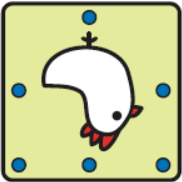
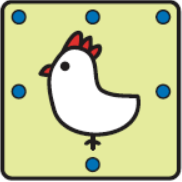
press T to toggle chieck and hen

diff --git a/src/main.py b/src/main.py
@@ -50,6 +50,11 @@ def main():
                     # Reset the selected piece
                     game.selected_piece = None
                     game.selected_piece_origin = None
+            elif event.type == pygame.KEYDOWN:  # A key was pressed
+                if event.key == pygame.K_t:  # The "T" key was pressed
+                    piece = game.get_piece_at_pos(pygame.mouse.get_pos())  # Get the piece under the mouse
+                    if piece and piece.piece_type in ["C", "H"]:  # Check if it's a chick or a hen
+                        game.toggle_chick_to_hen(piece)  # Toggle the piece
 
         # 繪製背景圖片
         window.blit(background, (0, 0))

diff --git a/src/piece.py b/src/piece.py
@@ -62,3 +62,15 @@ class Piece:
         
         # 更新移動規則，因為它們也可能依賴於 player 屬性
         self.move_rules = self.get_move_rules()
+
+    def update_piece_type(self, new_piece_type):
+        self.piece_type = new_piece_type
+        # 更新名稱和圖像檔名
+        self.name, self.image_file_name = piece_type_map[new_piece_type]
+
+        # 重新加載正確的圖像
+        self.image = pygame.image.load(
+            f"assets/{self.image_file_name}_{self.direction}.png")
+
+        # 更新移動規則，因為它們也可能依賴於 piece_type 屬性
+        self.move_rules = self.get_move_rules()

diff --git a/src/game.py b/src/game.py
@@ -207,3 +207,8 @@ class Game:
         else:
             # If the origin is on the board
             self.board_config[origin] = piece
+
+    def toggle_chick_to_hen(self, piece):
+        if piece and piece.piece_type in ["C", "H"]:
+            new_piece_type = "H" if piece.piece_type == "C" else "C"
+            piece.update_piece_type(new_piece_type)
